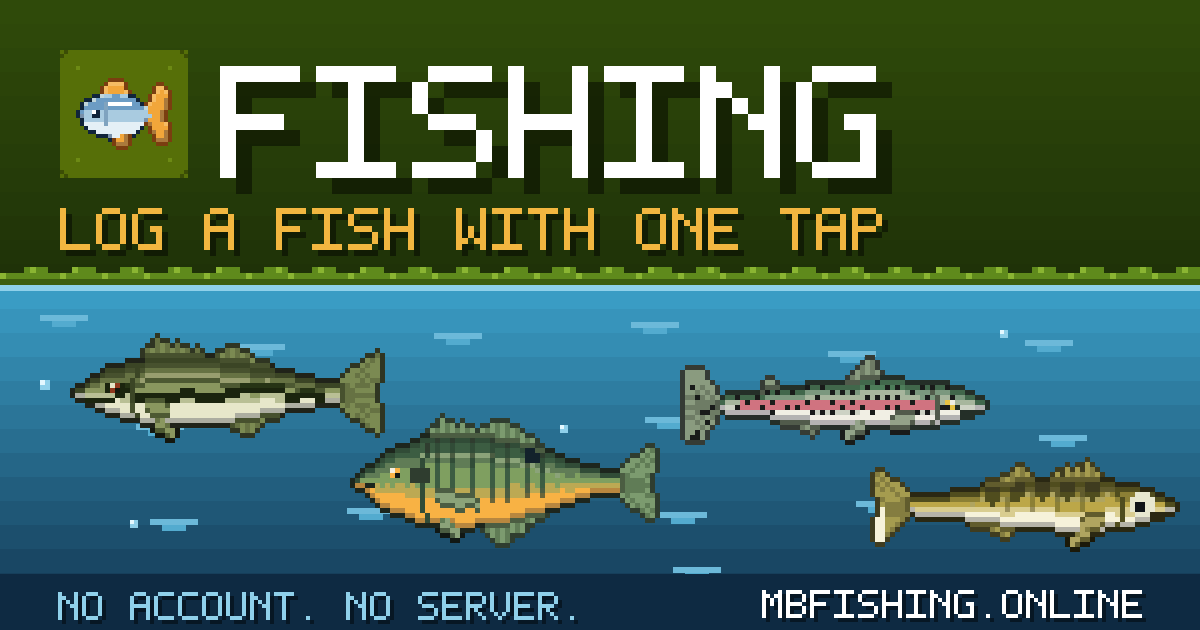
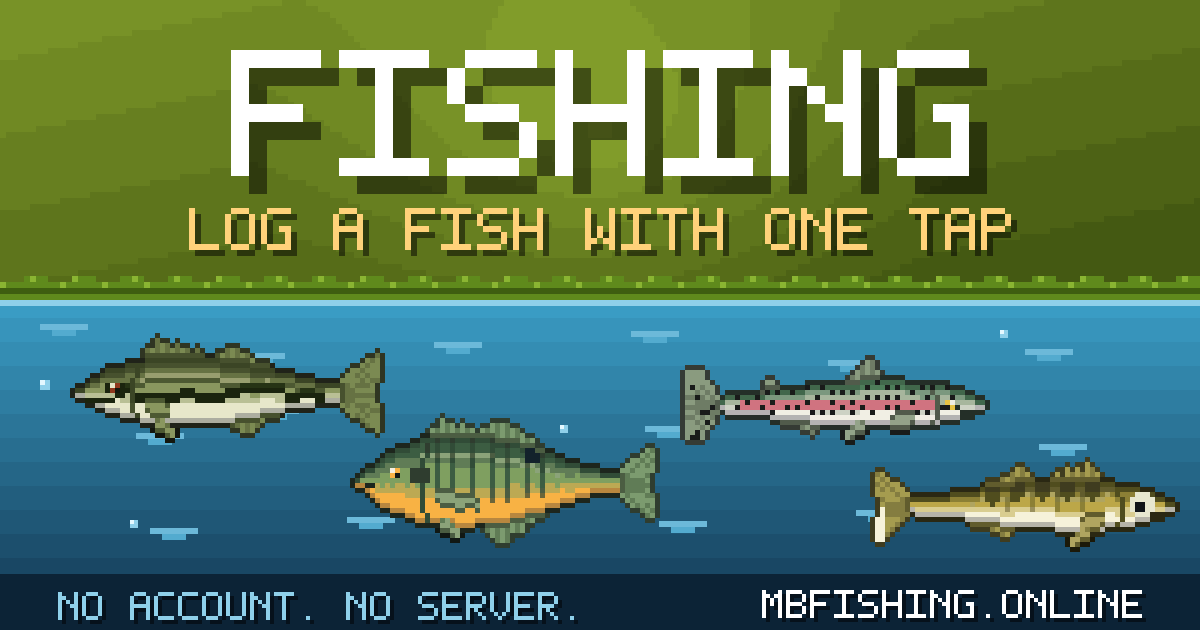
Add files via upload

diff --git a/index.html b/index.html
@@ -2,7 +2,7 @@
 <html lang="en">
 <head>
 <meta charset="utf-8">
-<meta http-equiv="Content-Security-Policy" content="default-src 'none'; script-src 'self' 'sha256-AQcgw3QsikccOQscMMUMW0Rfqv4LnLrk8Cee+yrlqqE=' 'sha256-SNmBwbAxlWZYyVGYmpJRVS0kIjADavKiTnA5LM/ETKI='; style-src 'self' 'unsafe-inline'; img-src 'self' data: blob: https://tiles.openfreemap.org; connect-src 'self' https://api.open-meteo.com https://photon.komoot.io https://tiles.openfreemap.org; worker-src 'self' blob:; child-src 'self' blob:; manifest-src 'self'; object-src 'none'; base-uri 'none'; form-action 'none'; frame-src 'none'">
+<meta http-equiv="Content-Security-Policy" content="default-src 'none'; script-src 'self' 'sha256-AQcgw3QsikccOQscMMUMW0Rfqv4LnLrk8Cee+yrlqqE=' 'sha256-b+ckna6aS4HItMa1CjH2XexrdSsDKLv/Oe0dBUS1qcg='; style-src 'self' 'unsafe-inline'; img-src 'self' data: blob: https://tiles.openfreemap.org; connect-src 'self' https://api.open-meteo.com https://photon.komoot.io https://tiles.openfreemap.org; worker-src 'self' blob:; child-src 'self' blob:; manifest-src 'self'; object-src 'none'; base-uri 'none'; form-action 'none'; frame-src 'none'">
 <meta name="viewport" content="width=device-width,initial-scale=1,viewport-fit=cover">
 <title>Fishing | Log</title>
 <meta name="description" content="Log a fish with one tap. No account. Your catches are saved in your browser, not on a server.">
@@ -2925,8 +2925,9 @@ ACT.wipe=async()=>{
 /* =====================================================================
    App shell: theme, header, menu, search, help, release notes, privacy note
    ===================================================================== */
-const APP_VERSION='1.11.1';
+const APP_VERSION='1.11.4';
 const RELEASES=[
+ {v:'1.11.3',d:'October 2026',n:['New logo and app icon: a new fish facing left on a richer green gradient, with a full outline and dorsal fin, centered with equal margins','The link preview image now uses the same fish and gradient so the logo, icons and preview match']},
  {v:'1.11.1',d:'October 2026',n:['All pixel art redrawn in 16-bit style: smoother shading, highlights and colored outlines on every fish, plus a new logo, app icon, weather icons and share card','Colors and markings checked against real photos for all fish, with fixes for many species','The Species guide is now fish only: the turtle, snake, frog, bird, mammal and crab entries were removed. Anything you already logged under those names is kept']},
  {v:'1.11.0',d:'October 2026',n:['Bite forecast now includes tides for salt water: next highs and lows, a tide line under the chart, and moving water scores better than slack','Hover (or tap, or use the arrow keys) over any bar in the forecast chart to read what that hour looks like','New logo and app icons with the fish exactly centered']},
  {v:'1.10.0',d:'October 2026',n:['New bite forecast on the Log screen: a Poor to Great rating for right now and the next 48 hours, with the next good window, for fresh or salt water','It’s an estimate from weather, daylight and the moon. It doesn’t include tides or water conditions. The forecast loads only when you tap it']},
